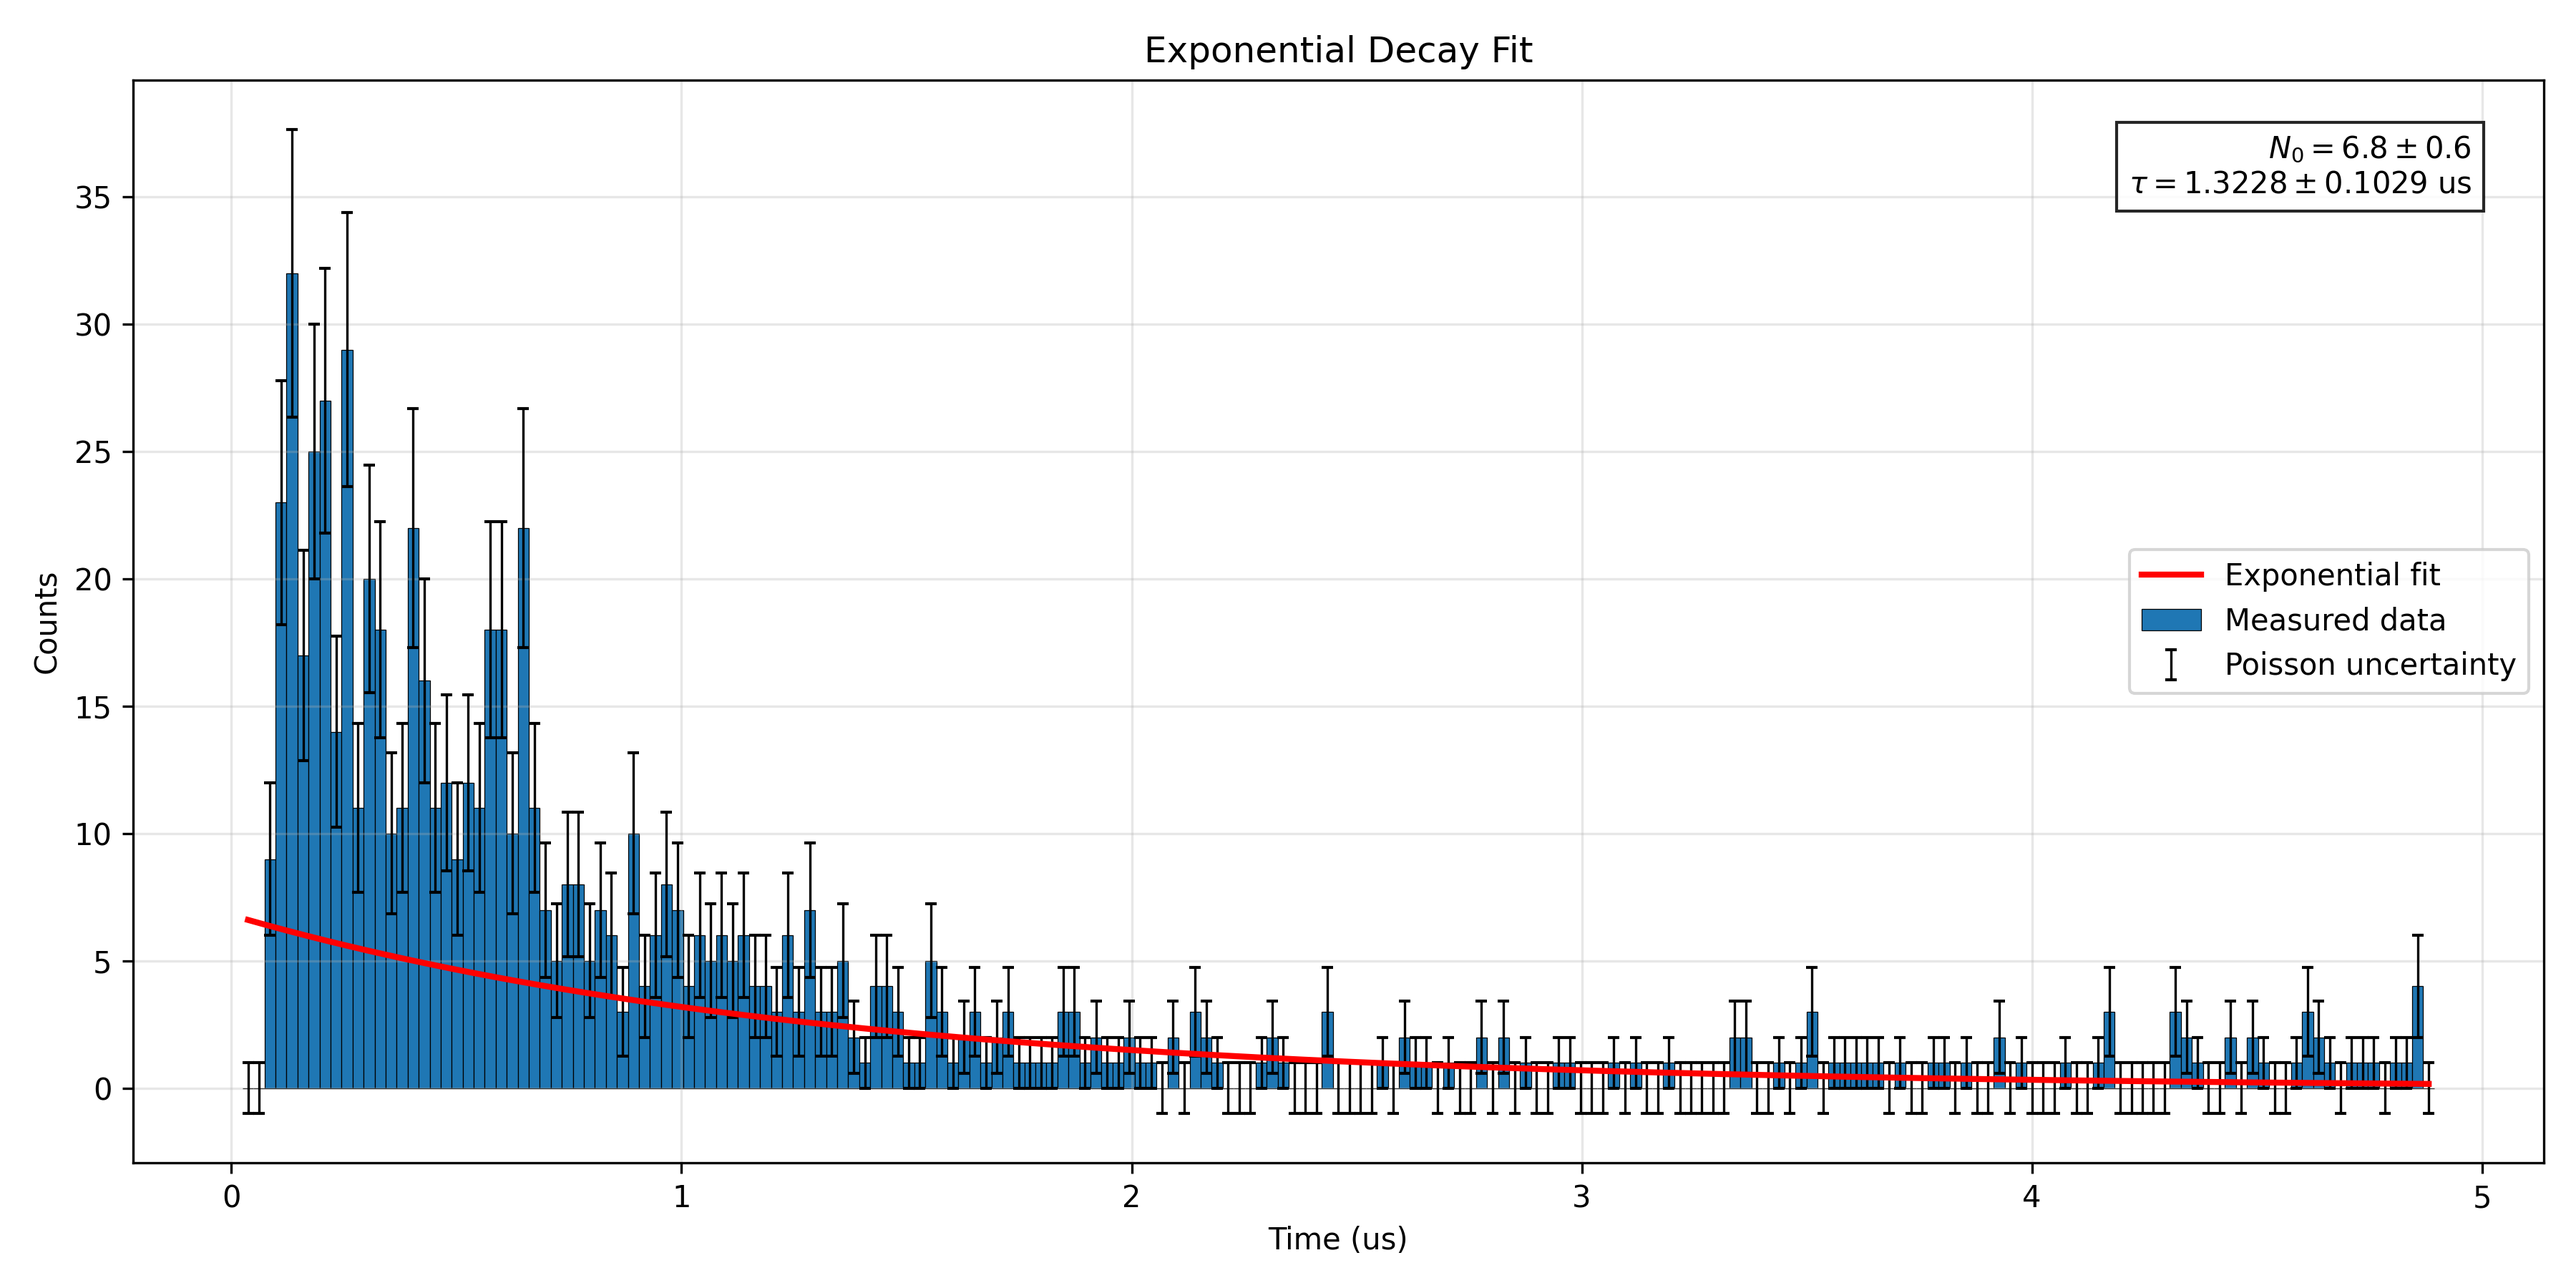
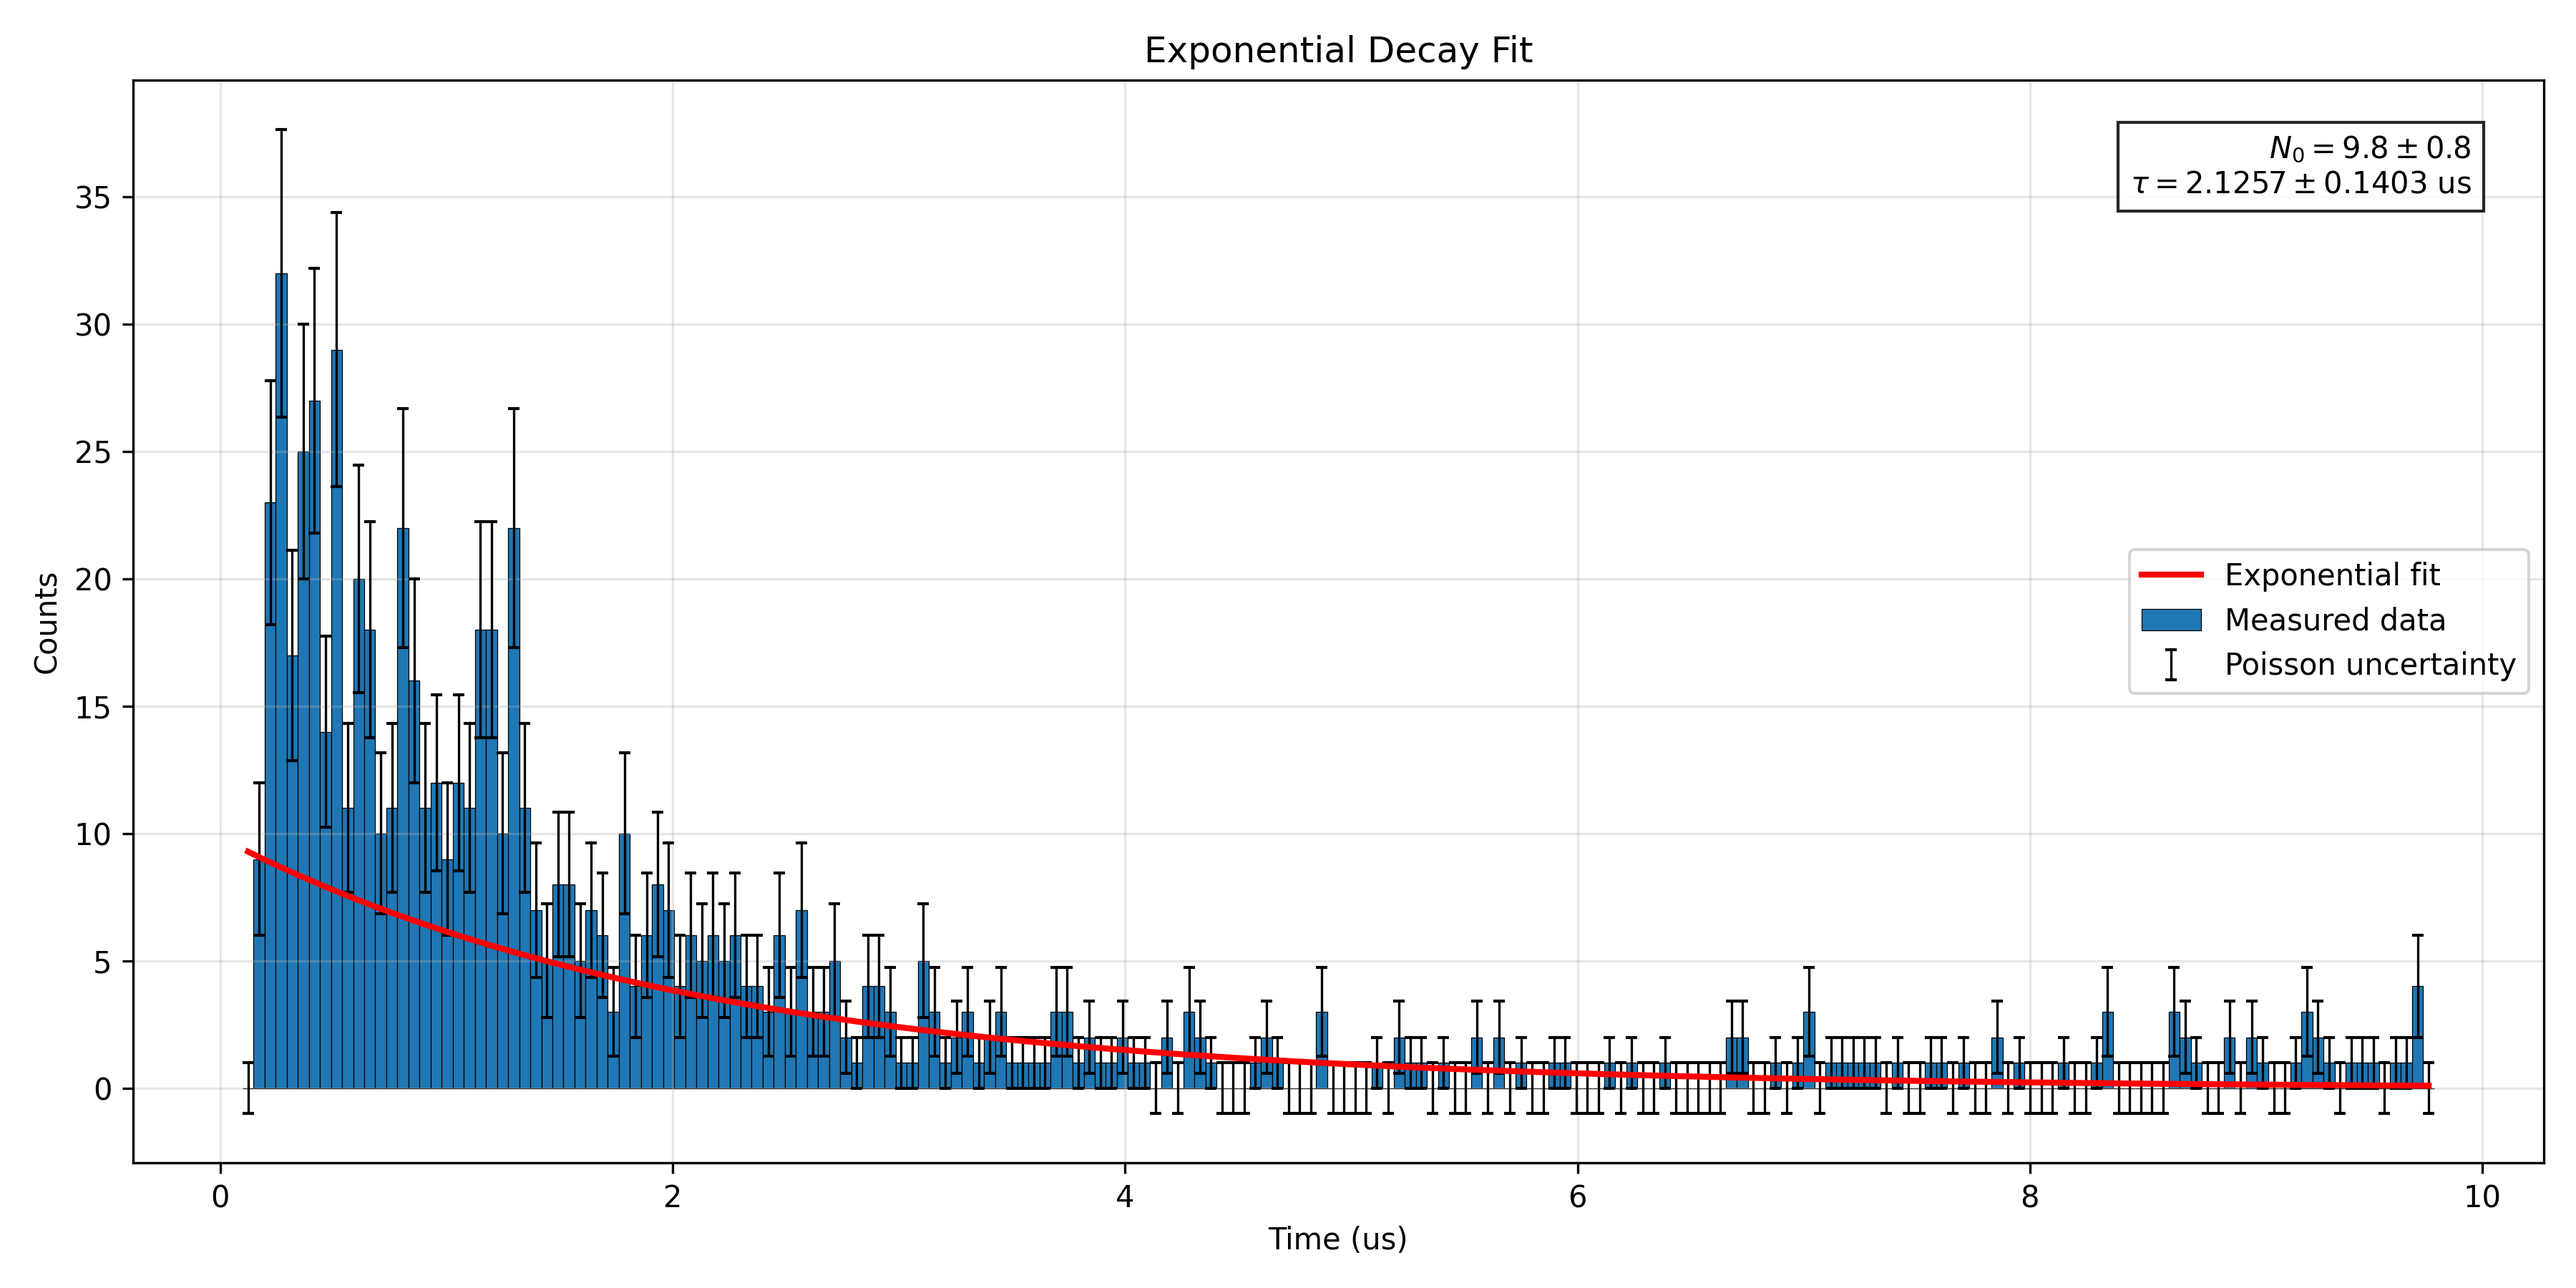
calibration period 0.64?

Changed region(s): [[0.0933, 0.1867, 0.9333, 0.8711], [0.84, 0.1244, 0.9333, 0.1556]]

diff --git a/muon_fitting.py b/muon_fitting.py
@@ -6,13 +6,14 @@ from scipy.optimize import curve_fit
 filename = "muon_run_1"
 
 # voltage * C = time
-C = 0.489384            # us/V
+C = 0.978767            # calibation constant for if our period is actually 0.64 microseconds (needs to be checked)
+#C = 0.489384           # us/V
 sigma_C = 0.000035      # us/V
 
 bin_width = 0.05        # voltage bin width (V)
 
 data = np.loadtxt(filename)
-data = data[1:] # ignore first few columns
+data = data[2:] # ignore first few columns
 voltage = data[:, 0]
 counts = data[:, 1]
 
